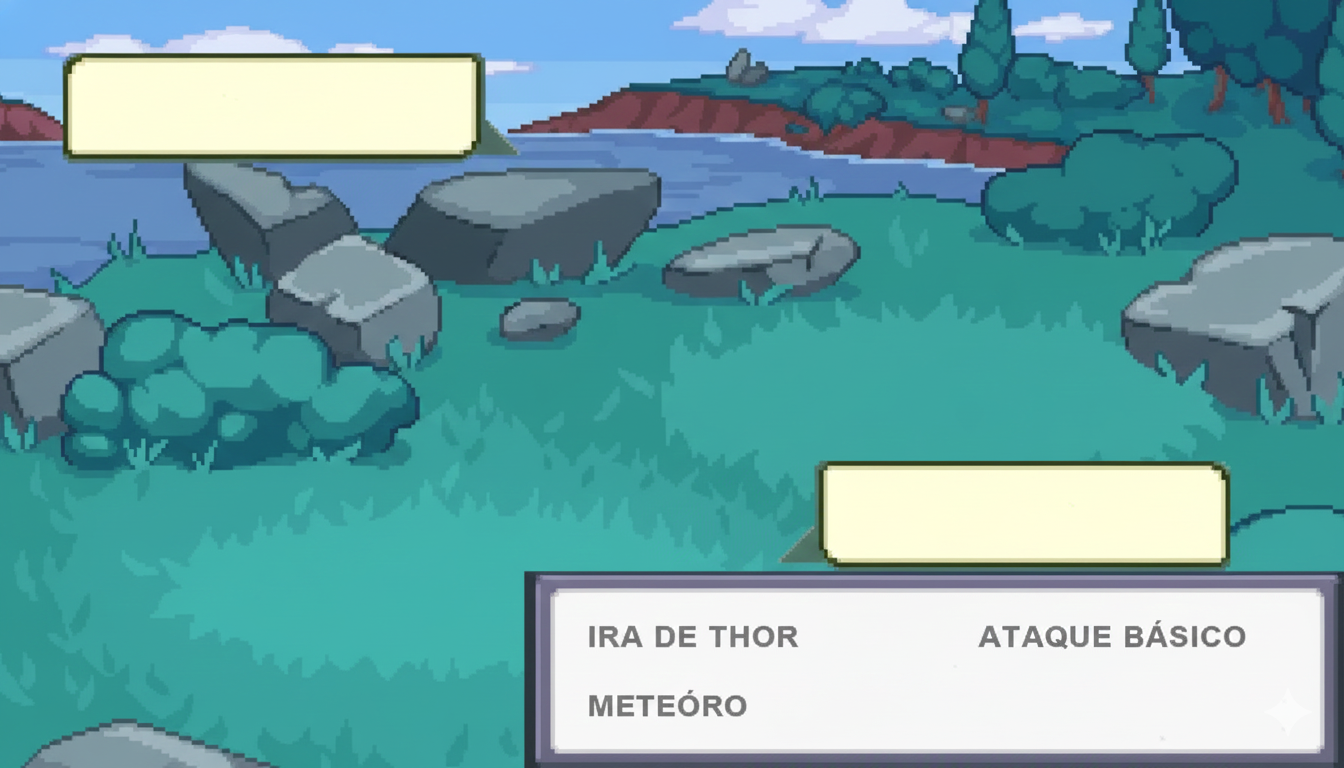
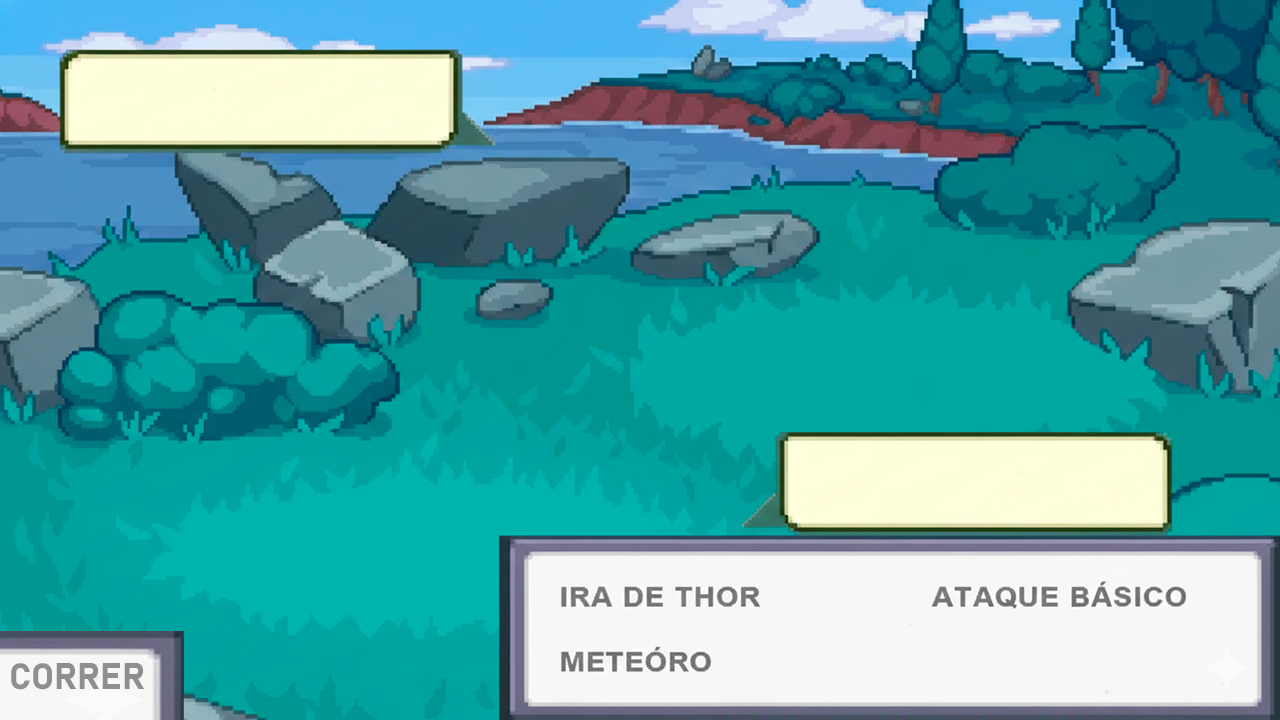
animação de ataque arrumado + quiz refeito

diff --git a/core/src/main/java/com/terminalroot/game/Batalha.java b/core/src/main/java/com/terminalroot/game/Batalha.java
@@ -4,14 +4,11 @@ import com.badlogic.gdx.Gdx;
 import com.badlogic.gdx.Screen;
 import com.badlogic.gdx.graphics.Color;
 import com.badlogic.gdx.graphics.Texture;
-import com.badlogic.gdx.graphics.glutils.ShapeRenderer;
 import com.badlogic.gdx.scenes.scene2d.Stage;
 import com.badlogic.gdx.scenes.scene2d.ui.Skin;
 import com.badlogic.gdx.utils.ScreenUtils;
 import com.badlogic.gdx.utils.viewport.ScreenViewport;
-import com.terminalroot.game.Animacaoataque;
 import com.badlogic.gdx.graphics.g2d.Animation;
-import com.badlogic.gdx.graphics.g2d.BitmapFont;
 import com.badlogic.gdx.graphics.g2d.TextureRegion;
 
 public class Batalha implements Screen {
@@ -34,7 +31,9 @@ public class Batalha implements Screen {
     private float tempoFase = 0f;
 
     private Animation<TextureRegion> efeitoirathor, efeitometeoro, efeitoataquebasico;
-    private Texture texirathor, texmeteoro, texataquebasico;
+    private Texture texirathor = new Texture("efeitos/ira_thor.png");
+    private Texture texataquebasico = new Texture("efeitos/ataquebasico.png");
+    private Texture texmeteoro = new Texture("efeitos/meteoro.png");
     private float stateTimeEfeito;
     private boolean efeitoAtivo;
     private float efeitoX, efeitoY, efeitoW, efeitoH;
@@ -65,12 +64,12 @@ public class Batalha implements Screen {
             jogador.gastaStamina(custoStamina); // recupera a stamina
 
             // Ativa o efeito
-            efeitoAtual = animEfeito; // define a animação que vai ocorrer
-            efeitoX = monstro.getX() - 0.5f; // valores para centralizar o efeito no monstro
-            efeitoY = monstro.getY() - 0.5f;
-            efeitoW = 2f;
-            efeitoH = 2f;
+            efeitoW = 4f;
+            efeitoH = 4f;
+            efeitoX = monstro.getX() + monstro.getW() / 2f - efeitoW / 2f;
+            efeitoY = monstro.getY() * 0.60f;
 
+            efeitoAtual = animEfeito; // define a animação que vai ocorrer
             efeitoAtivo = true; // flag para ativar o efeito
             stateTimeEfeito = 0f; // reseta o tempo ded animação
 
@@ -79,8 +78,11 @@ public class Batalha implements Screen {
 
             if (!monstro.ESTADO()) { // verifica se o monstro morreu
                 System.out.println("Vitória! Monstro derrotado!"); // se morreu avança de fase e volta pro menu
-                game.avancafase();
-                controle.Trocar_estado(Controle_Diagrama_Estados.State.MENU_PRINCIPAL);
+
+                aguardandoAnimacao = true;
+                tempoEspera = 2f; // tempo para ver a "morte" do monstro (ajuste conforme necessário)
+                turnoJogador = false;
+
                 return;
             }
 
@@ -100,25 +102,25 @@ public class Batalha implements Screen {
         stage.addActor(botao);
     }
 
-    private Animation<TextureRegion> criarAnimacaoEfeito(String caminho, int colunas, float tempo) {
-        Texture tex = new Texture(Gdx.files.internal(caminho));
+    private Animation<TextureRegion> criarAnimacaoEfeito(Texture tex, int cols, int rows, float tempo) {
 
-        // Guarda para dispose depois
-        if (caminho.contains("raio"))
-            texirathor = tex;
-        else if (caminho.contains("explosao"))
-            texmeteoro = tex;
-        else if (caminho.contains("slash"))
-            texataquebasico = tex;
+        int frameWidth = tex.getWidth() / cols;
+        int frameHeight = tex.getHeight() / rows;
 
-        TextureRegion[][] tmp = TextureRegion.split(tex, tex.getWidth() / colunas, tex.getHeight());
-        TextureRegion[] frames = new TextureRegion[colunas];
-        for (int i = 0; i < colunas; i++) {
-            frames[i] = tmp[0][i];
+        TextureRegion[][] tmp = TextureRegion.split(tex, frameWidth, frameHeight);
+
+        TextureRegion[] frames = new TextureRegion[cols * rows];
+        int index = 0;
+
+        for (int r = 0; r < rows; r++) {
+            for (int c = 0; c < cols; c++) {
+                frames[index++] = tmp[r][c];
+            }
         }
 
         Animation<TextureRegion> anim = new Animation<>(tempo, frames);
         anim.setPlayMode(Animation.PlayMode.NORMAL);
+
         return anim;
     }
 
@@ -142,9 +144,9 @@ public class Batalha implements Screen {
         stage = new Stage(new ScreenViewport());
         skin = new Skin(Gdx.files.internal("ui/ui_skin.json"));
 
-        efeitoirathor = criarAnimacaoEfeito("efeitos/ira_thor.png", 56, 0.03f);
-        efeitometeoro = criarAnimacaoEfeito("efeitos/meteoro.png", 94, 0.02f);
-        efeitoataquebasico = criarAnimacaoEfeito("efeitos/ataquebasico.png", 29, 0.05f);
+        efeitoirathor = criarAnimacaoEfeito(texirathor, 10, 6, 0.02f);
+        efeitometeoro = criarAnimacaoEfeito(texmeteoro, 11, 1, 0.03f);
+        efeitoataquebasico = criarAnimacaoEfeito(texataquebasico, 4, 8, 0.05f);
 
         efeitoAtivo = false;
 
@@ -161,7 +163,7 @@ public class Batalha implements Screen {
         addBotao("", basex + espacamento + 80, baseY, (int) (jogador.getFORCA() * 2), efeitoataquebasico, 10);
         addBotao("", basex, baseY - 50, (int) (jogador.getINTELIGENCIA() * 2), efeitometeoro, 20);
 
-        Botao btnVoltar = new Botao("FUGIR", skin, () -> {
+        Botao btnVoltar = new Botao("", skin, () -> {
             controle.Trocar_estado(Controle_Diagrama_Estados.State.MENU_PRINCIPAL);
         });
 
@@ -188,6 +190,15 @@ public class Batalha implements Screen {
         if (!turnoJogador && aguardandoAnimacao) { // não é turno do jogador e está aguardando animação do monstro
             tempoEspera -= delta; // diminui o tempo de espera inicial antes do monstro começar a agir
 
+            if (!monstro.ESTADO()) {
+                if (tempoEspera <= 0) {
+                    game.avancafase();
+                    controle.Trocar_estado(Controle_Diagrama_Estados.State.MENU_PRINCIPAL);
+                    return;
+                }
+                // Não faz mais nada, só aguarda
+                
+            } else {
             // quando acabar o tempo de espera e o monstro estiver parado, inicia o
             // movimento do monstro ao jogador
             if (tempoEspera <= 0 && faseMonstro == FaseMonstro.PARADO) {
@@ -225,7 +236,7 @@ public class Batalha implements Screen {
                         }
                         break;
 
-                    case VOLTANDO:
+                    case VOLTANDO:  
                         // volta para posição original
                         if (tempoFase < 1f) { // movimentação suave para voltar
                             float progresso = tempoFase / 1f;
@@ -238,6 +249,7 @@ public class Batalha implements Screen {
                             // verifica se o jogador morreu
                             if (!jogador.ESTADO()) {
                                 System.out.println("Game Over! Você foi derrotado!");
+
                                 controle.Trocar_estado(Controle_Diagrama_Estados.State.MENU_PRINCIPAL);
                                 return;
                             }
@@ -258,6 +270,7 @@ public class Batalha implements Screen {
                 }
             }
         }
+    }
 
         // Desenha tudo
         game.viewport.apply();

diff --git a/core/src/main/java/com/terminalroot/game/Animacaoataque.java b/core/src/main/java/com/terminalroot/game/Animacaoataque.java
@@ -13,16 +13,33 @@ public class Animacaoataque {
     private float x, y, w, h;
     private boolean ativo;
 
-    public Animacaoataque(String caminho, int colunas, float tempoPorFrame) {
-        textura = new Texture(Gdx.files.internal(caminho));
-        TextureRegion[][] tmp = TextureRegion.split(textura, textura.getWidth() / colunas, textura.getHeight());
-        TextureRegion[] frames = new TextureRegion[colunas];
-        for (int i = 0; i < colunas; i++) {
-            frames[i] = tmp[0][i];
+    public Animacaoataque(String caminho, int cols, int rows, float tempo) {
+        this.textura = new Texture(Gdx.files.internal(caminho));
+        this.animacao = criarAnimacaoEfeito(this.textura, cols, rows, tempo);
+        this.stateTime = 0f;
+        this.ativo = false;
+    }
+
+    public static Animation<TextureRegion> criarAnimacaoEfeito(Texture tex, int cols, int rows, float tempo) {
+
+        int frameWidth = tex.getWidth() / cols;
+        int frameHeight = tex.getHeight() / rows;
+
+        TextureRegion[][] tmp = TextureRegion.split(tex, frameWidth, frameHeight);
+
+        TextureRegion[] frames = new TextureRegion[cols * rows];
+        int index = 0;
+
+        for (int r = 0; r < rows; r++) {
+            for (int c = 0; c < cols; c++) {
+                frames[index++] = tmp[r][c];
+            }
         }
-        animacao = new Animation<>(tempoPorFrame, frames);
-        animacao.setPlayMode(Animation.PlayMode.NORMAL);
-        ativo = false;
+
+        Animation<TextureRegion> anim = new Animation<>(tempo, frames);
+        anim.setPlayMode(Animation.PlayMode.NORMAL);
+
+        return anim;
     }
 
     public void iniciar(float x, float y, float w, float h) {

diff --git a/core/src/main/java/com/terminalroot/game/Main.java b/core/src/main/java/com/terminalroot/game/Main.java
@@ -2,6 +2,7 @@ package com.terminalroot.game;
 
 import com.badlogic.gdx.Game;
 import com.badlogic.gdx.Gdx;
+import com.badlogic.gdx.graphics.GL20;
 import com.badlogic.gdx.graphics.g2d.BitmapFont;
 import com.badlogic.gdx.graphics.g2d.SpriteBatch;
 import com.badlogic.gdx.utils.viewport.FitViewport;
@@ -20,6 +21,7 @@ public class Main extends Game {
     public static int forca = 5;
     // tentar trazer todo o manejo de skins do inventario pra cá
     public static ItensInventario inventario = new ItensInventario();
+    
 
     public Usuario jogador;
 
@@ -35,6 +37,8 @@ public class Main extends Game {
         font = new BitmapFont();
         viewport = new FillViewport(8, 5);
         controle = new Controle_Diagrama_Estados(this);
+        
+
 
         carregarDados();
 

diff --git a/core/src/main/java/com/terminalroot/game/Quiz.java b/core/src/main/java/com/terminalroot/game/Quiz.java
@@ -112,9 +112,9 @@ public class Quiz implements Screen {
         botA.setBounds(bx, h * 0.35f, bw, bh);
         stage.addActor(botA);
 
-        botA.getStyle().up = null; // por algum motivo isso transforma todos botões da tela em transparente, mas pelo menos não preciso transformar 1 por 1
-        botA.getStyle().down = null;
-        botA.getStyle().over = null;
+       // botA.getStyle().up = null; // por algum motivo isso transforma todos botões da tela em transparente, mas pelo menos não preciso transformar 1 por 1
+       // botA.getStyle().down = null;
+       // botA.getStyle().over = null;
 
         // Botão B
         Botao botB = new Botao("", skin, () -> {verificaresposta('B'); System.out.println('B');});

diff --git a/core/src/main/java/com/terminalroot/game/BancoMonstros.java b/core/src/main/java/com/terminalroot/game/BancoMonstros.java
@@ -5,7 +5,7 @@ public class BancoMonstros {
     private static final int[] HP_POR_FASE =   {30, 50, 75, 100, 130, 165, 200, 240, 285, 350}; // hp dos monstros por fase
     private static final int[] DANO_POR_FASE = { 3,  5,  7,  10,  12,  15,  18,  22,  26,  30}; // dano dos monstros por fase, tabelados
 
-    // frames de cada animação 
+    // frames de cada animação (idle, ataque, dano, morte)
     
     private static final int[][] FRAMES_ANJOS = {
         {4, 28, 5, 17}, 

diff --git a/core/src/main/java/com/terminalroot/game/Monstro.java b/core/src/main/java/com/terminalroot/game/Monstro.java
@@ -159,7 +159,6 @@ public class Monstro {
         return h; 
     }
 
-
     public void dispose() {
         if(texIdle != null) texIdle.dispose();
         if(texAtaque != null) texAtaque.dispose();
